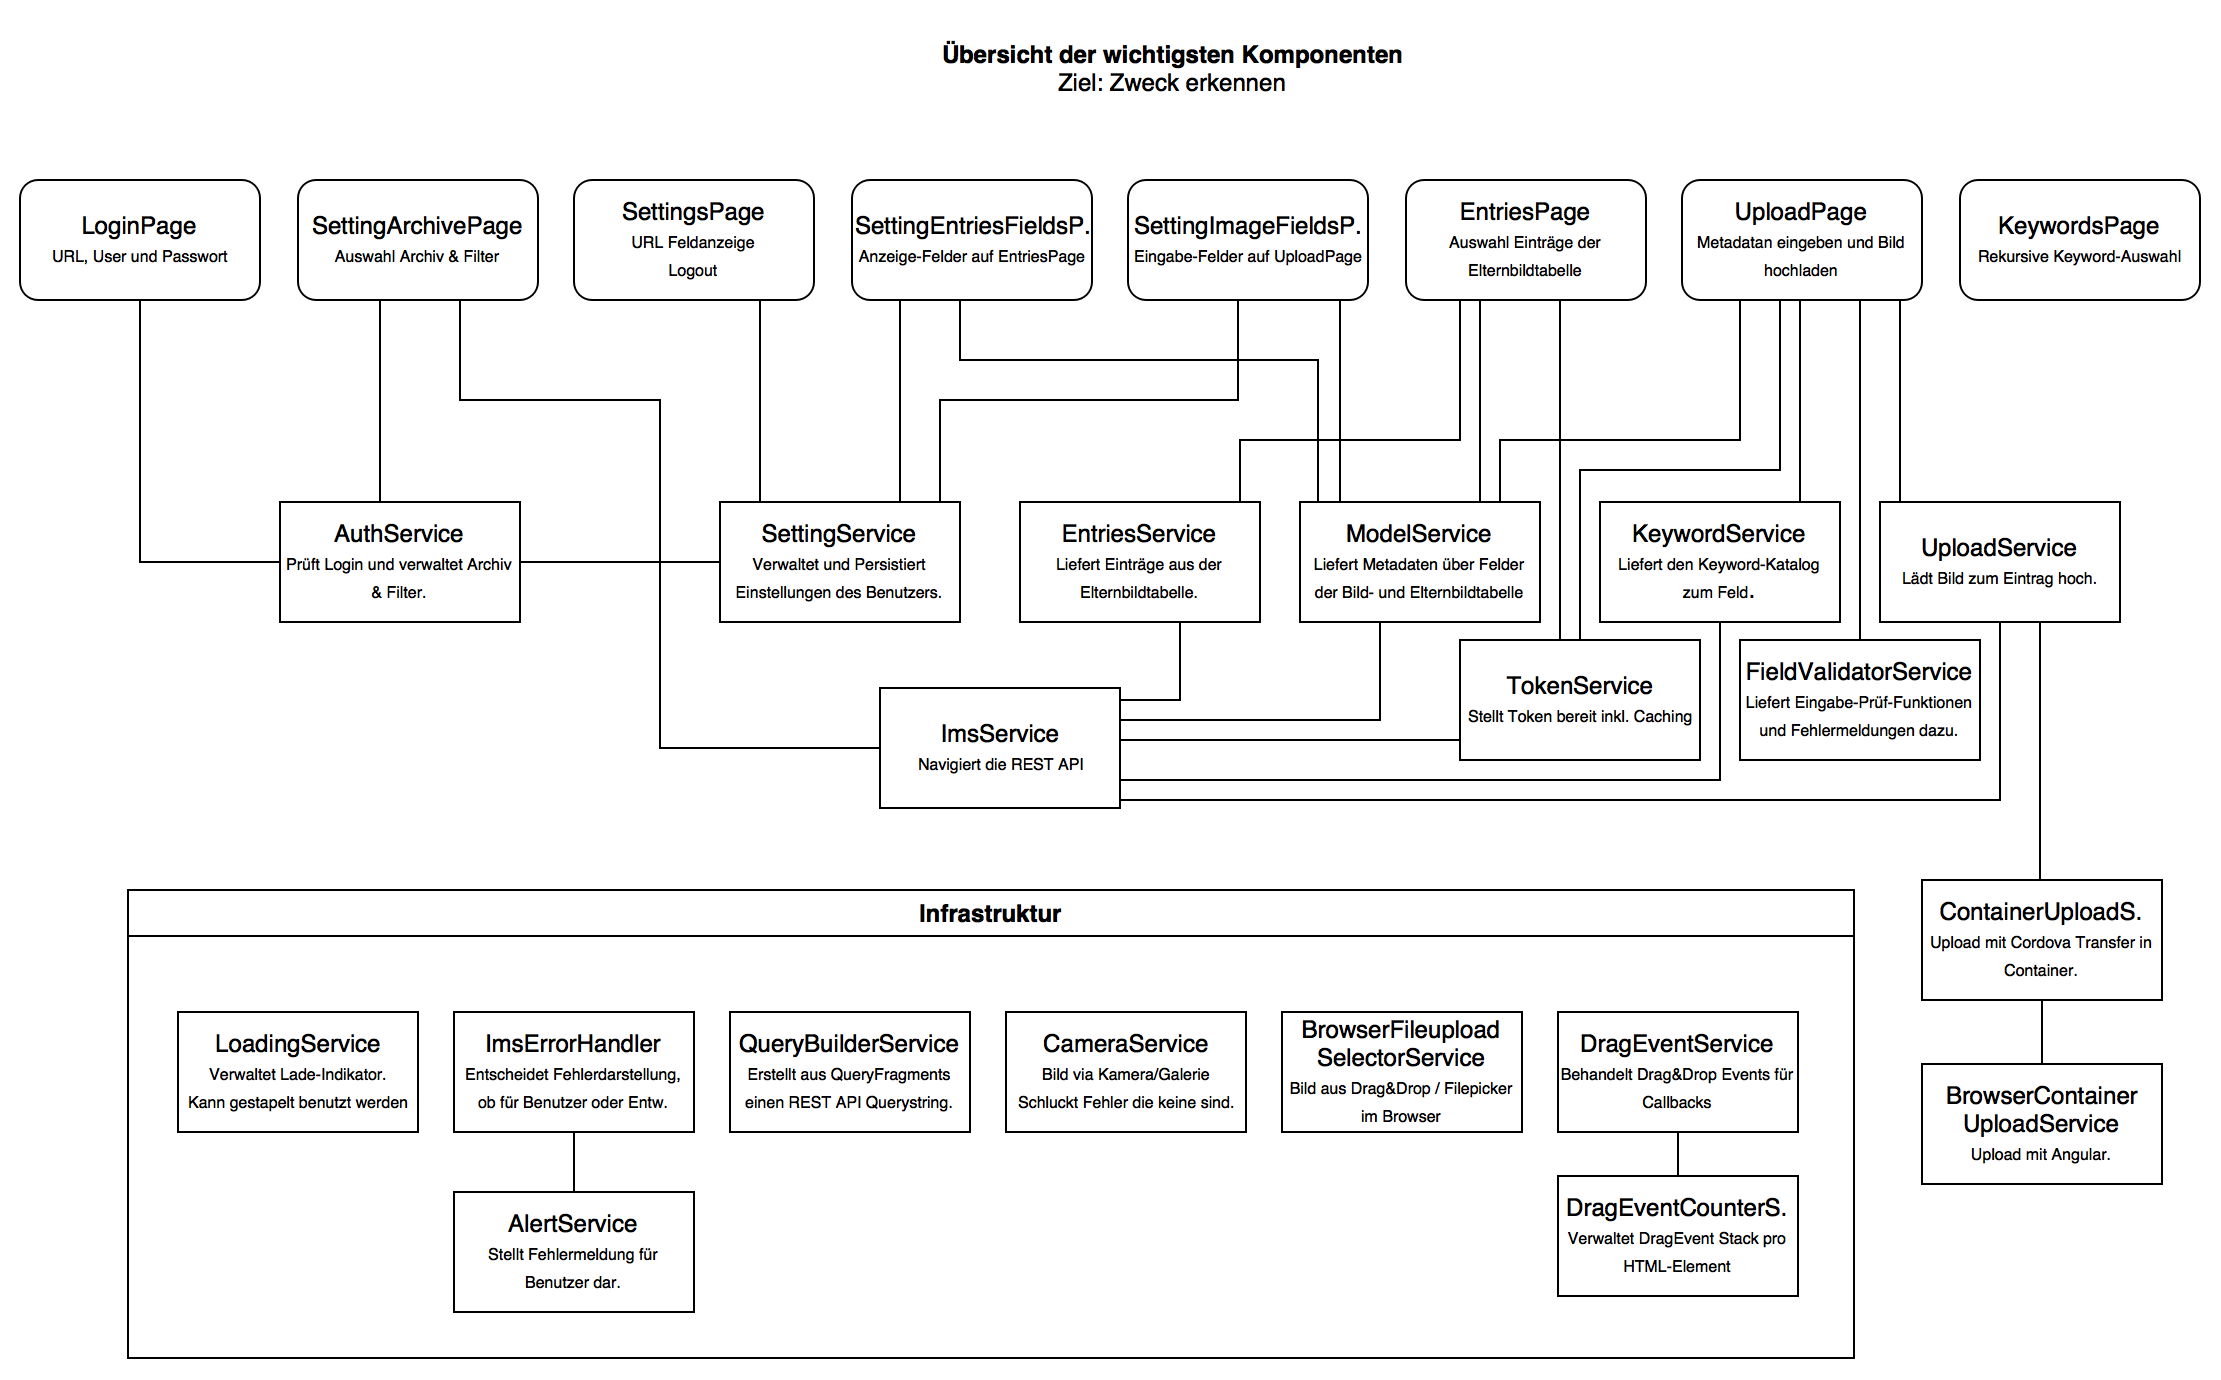
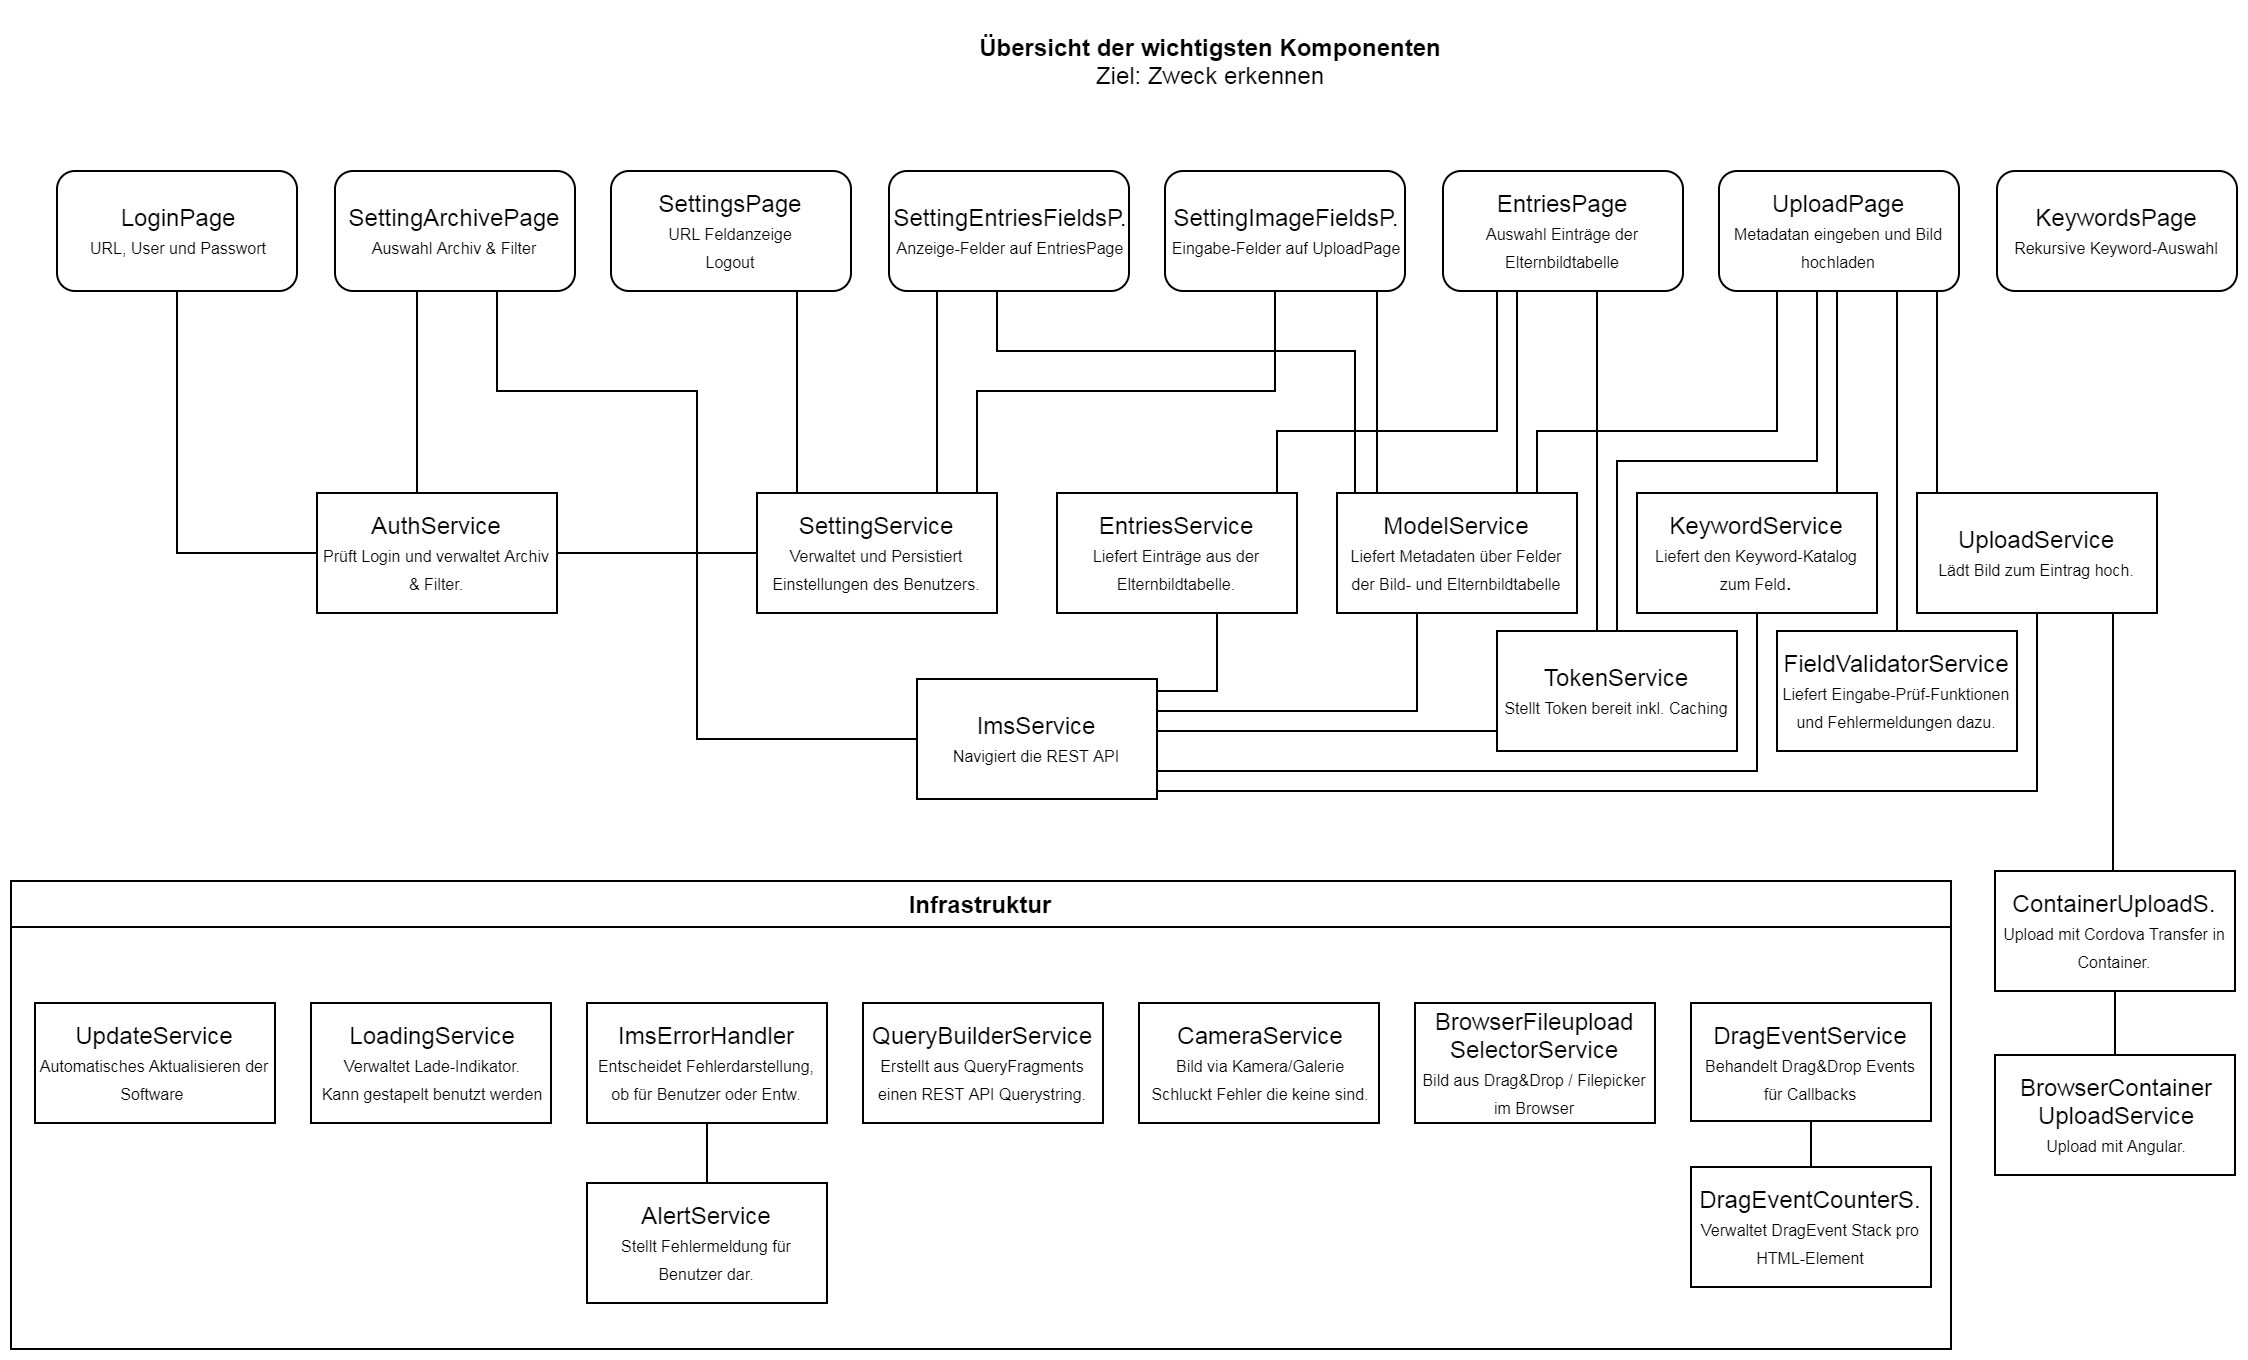
feat: automatic update on client start
With this feature the client checks for a new version on startup and automatically updates the app in case of a newer version. This finishes the continouse delivery cycle and allows to ensure that customers always have the newest version.

Closes #401

diff --git a/src/pages/login/login.spec.ts b/src/pages/login/login.spec.ts
@@ -1,6 +1,8 @@
+/* tslint:disable:max-file-line-count */
 import { ComponentFixture, inject, TestBed } from '@angular/core/testing';
 import { FormsModule, ReactiveFormsModule } from '@angular/forms';
 import { BaseRequestOptions, Http, HttpModule } from '@angular/http';
+import { Deploy } from '@ionic/cloud-angular';
 import { Storage } from '@ionic/storage';
 import { AlertController, App, Config, DomController, Form, IonicModule, Keyboard, LoadingController, NavController, NavParams, Platform, ToastController } from 'ionic-angular';
 import { Observable } from 'rxjs/Observable';
@@ -12,11 +14,14 @@ import { ImsService } from '../../providers/ims-service';
 import { LoadingService } from '../../providers/loading-service';
 import { SettingService } from '../../providers/setting-service';
 import { EntriesPage } from '../entries/entries';
+import { DeployMock } from './../../mocks/mocks';
 import { ImsAuthenticationError } from './../../models/errors/ims-authentication-error';
 import { ImsLoadingError } from './../../models/errors/ims-loading-error';
 import { ImsServerConnectionError } from './../../models/errors/ims-server-connection-error';
+import { UpdateError } from './../../models/errors/update-error';
 import { DragEventCounterService } from './../../providers/drag-event-counter-service';
 import { DragEventService } from './../../providers/drag-event-service';
+import { UpdateService } from './../../providers/update-service';
 import { SettingArchivePage } from './../setting-archive/setting-archive';
 import { LoginPage } from './login';
 
@@ -31,7 +36,7 @@ describe('Page: Login', () => {
       providers: [
         App, DomController, Form, Keyboard, NavController, LoadingController, AuthService,
         ImsService, ImsBackendMock, BaseRequestOptions, LoadingService, AlertService, SettingService,
-        DragEventService, DragEventCounterService,
+        DragEventService, DragEventCounterService, UpdateService,
         {
           provide: Http,
           useFactory: (imsBackendMock, options) =>
@@ -46,6 +51,7 @@ describe('Page: Login', () => {
         { provide: ToastController, useClass: ToastMock },
         { provide: LoadingController, useClass: LoadingMock },
         { provide: Storage, useClass: StorageMock },
+        { provide: Deploy, useClass: DeployMock },
       ],
       imports: [HttpModule, FormsModule, IonicModule, ReactiveFormsModule]
     });
@@ -178,6 +184,17 @@ describe('Page: Login', () => {
     page.loginForm.controls.password.setValue(credential.password);
     expect(page.loginForm.valid).toBeTruthy();
     expect(() => page.loginSuccessful()).toThrowError(ImsLoadingError);
+  }));
+
+  it('Checks for updates', inject([UpdateService], (updateService: UpdateService) => {
+    spyOn(updateService, 'updateIfAvailable').and.callThrough();
+    page.ionViewDidLoad();
+    expect(updateService.updateIfAvailable).toHaveBeenCalled();
+  }));
+
+  it('Throws update error when update fails', inject([UpdateService], (updateService: UpdateService) => {
+    spyOn(updateService, 'updateIfAvailable').and.returnValue(Observable.throw('oops'));
+    expect(() => page.ionViewDidLoad()).toThrowError(UpdateError);
   }));
 
 });

diff --git a/src/pages/login/login.ts b/src/pages/login/login.ts
@@ -10,7 +10,9 @@ import { SettingService } from '../../providers/setting-service';
 import { EntriesPage } from '../entries/entries';
 import { ImsAuthenticationError } from './../../models/errors/ims-authentication-error';
 import { ImsServerConnectionError } from './../../models/errors/ims-server-connection-error';
+import { UpdateError } from './../../models/errors/update-error';
 import { Filter } from './../../models/filter';
+import { UpdateService } from './../../providers/update-service';
 import { SettingArchivePage } from './../setting-archive/setting-archive';
 
 @Component({
@@ -24,7 +26,7 @@ export class LoginPage {
   public version: string = '0.10.0';
   public readonly unauthorizedHttpStatusCode: number = 401;
 
-  constructor(public navCtrl: NavController, public navParams: NavParams, public formBuilder: FormBuilder, public loadingService: LoadingService, public toastCtrl: ToastController, public authService: AuthService, public settingService: SettingService, public app: App) {
+  constructor(public navCtrl: NavController, public navParams: NavParams, public formBuilder: FormBuilder, public loadingService: LoadingService, public toastCtrl: ToastController, public authService: AuthService, public settingService: SettingService, public app: App, public updateService: UpdateService) {
     this.loginForm = this.formBuilder.group({
       server: ['', Validators.required],
       user: ['', Validators.required],
@@ -81,6 +83,7 @@ export class LoginPage {
   }
 
   public ionViewDidLoad(): void {
+    this.loadingService.subscribeWithLoading(this.updateService.updateIfAvailable(), () => { }, err => { throw new UpdateError(err); } );
     this.settingService.getRestUrl().subscribe(val => this.loginForm.controls.server.setValue(val));
     this.settingService.getUsername().subscribe(val => this.loginForm.controls.user.setValue(val));
     this.settingService.isShowRestUrlField().subscribe(val => this.isShowRestUrlField = val);

diff --git a/src/app/app.module.ts b/src/app/app.module.ts
@@ -1,11 +1,11 @@
 import { ErrorHandler, NgModule } from '@angular/core';
-import { Http, HttpModule} from '@angular/http';
+import { Http, HttpModule } from '@angular/http';
 import { BrowserModule } from '@angular/platform-browser';
 import { Camera } from '@ionic-native/camera';
 import { SplashScreen } from '@ionic-native/splash-screen';
 import { StatusBar } from '@ionic-native/status-bar';
 import { Transfer } from '@ionic-native/transfer';
-import { CloudModule, CloudSettings } from '@ionic/cloud-angular';
+import { CloudModule, CloudSettings, Deploy } from '@ionic/cloud-angular';
 import { IonicStorageModule } from '@ionic/storage';
 import { IonicApp, IonicModule, Platform } from 'ionic-angular';
 import { ImsFieldSelectionComponent } from '../components/ims-field-selection/ims-field-selection';
@@ -35,6 +35,7 @@ import { KeywordService } from './../providers/keyword-service';
 import { ModelService } from './../providers/model-service';
 import { QueryBuilderService } from './../providers/query-builder-service';
 import { SettingService } from './../providers/setting-service';
+import { UpdateService } from './../providers/update-service';
 import { MobileClient } from './app.component';
 import { AppProviders } from './app.providers';
 
@@ -113,7 +114,12 @@ const cloudSettings: CloudSettings = {
     DragEventService,
     DragEventCounterService,
     { provide: ErrorHandler, useClass: ImsErrorHandler },
-    KeywordService
+    KeywordService,
+    {
+      provide: UpdateService,
+      useFactory: AppProviders.updateServiceFactory,
+      deps: [Platform, Deploy]
+    },
   ]
 })
 export class AppModule { }

diff --git a/scripts/e2e-deploy-mock.js b/scripts/e2e-deploy-mock.js
@@ -1,0 +1,44 @@
+const fs = require('fs');
+const path = require('path');
+const chalk = require('chalk')
+const figures = require('figures')
+const exec = require('child_process').exec;
+
+const appModuleFile = path.resolve(__dirname, '../src/app/app.module.ts');
+
+const importLocation = 'from \'@ionic/cloud-angular\';';
+const importInsert = '\nimport { DeployMock } from \'./../mocks/mocks\';';
+const providersLocation = 'providers: [';
+const providersInsert = '\n{ provide: Deploy, useClass: DeployMock },';
+
+function insertDeployMock() {
+  insertAtLocation(appModuleFile, importLocation, importInsert);
+  insertAtLocation(appModuleFile, providersLocation, providersInsert);
+  console.info(chalk.green(figures.tick) + ' add DeployMock to app.modules.ts.');
+}
+
+function removeDeployMock() {
+  removeAtLocation(appModuleFile, importLocation, importInsert);
+  removeAtLocation(appModuleFile, providersLocation, providersInsert);
+  console.info(chalk.green(figures.tick) + ' remove DeployMock from app.modules.ts.');
+}
+
+function insertAtLocation(file, location, insert) {
+  var content = fs.readFileSync(file, 'utf8');
+  var contentReplaced = content.replace(location, location + insert);
+  fs.writeFileSync(file, contentReplaced, 'utf8');
+}
+
+function removeAtLocation(file, location, insert) {
+  var content = fs.readFileSync(file, 'utf8');
+  var contentReplaced = content.replace(location + insert, location);
+  fs.writeFileSync(file, contentReplaced, 'utf8');
+}
+
+if(process.argv[2] === 'add') {
+  insertDeployMock();
+}
+
+if(process.argv[2] === 'remove') {
+  removeDeployMock();
+}

diff --git a/src/providers/update-service.spec.ts b/src/providers/update-service.spec.ts
@@ -1,0 +1,40 @@
+import { async, inject, TestBed } from '@angular/core/testing';
+import { Deploy } from '@ionic/cloud-angular';
+import { Platform } from 'ionic-angular';
+import { DeployMock } from './../mocks/mocks';
+import { UpdateService } from './update-service';
+
+describe('Provider: Update Service', () => {
+
+  beforeEach(() => {
+    TestBed.configureTestingModule({
+      declarations: [],
+      providers: [
+        Platform,
+        UpdateService,
+        { provide: Deploy, useClass: DeployMock },
+      ],
+      imports: []
+    });
+  });
+
+  it('Should not download anything if version is already new', async(inject([UpdateService, Deploy], (updateService: UpdateService, deploy: Deploy) => {
+    spyOn(deploy, 'check').and.returnValue(Promise.resolve(false));
+    spyOn(deploy, 'download').and.callThrough();
+    updateService.updateIfAvailable().subscribe(() => {
+      expect(deploy.download).toHaveBeenCalledTimes(0);
+    });
+  })));
+
+  it('Should download, extract and load app if new version is reachable', async(inject([UpdateService, Deploy], (updateService: UpdateService, deploy: Deploy) => {
+    spyOn(deploy, 'check').and.returnValue(Promise.resolve(true));
+    spyOn(deploy, 'download').and.callThrough();
+    spyOn(deploy, 'extract').and.callThrough();
+    spyOn(deploy, 'load').and.callThrough();
+    updateService.updateIfAvailable().subscribe(() => {
+      expect(deploy.download).toHaveBeenCalledTimes(1);
+      expect(deploy.extract).toHaveBeenCalledTimes(1);
+      expect(deploy.load).toHaveBeenCalledTimes(1);
+    });
+  })));
+});

diff --git a/src/app/app.providers.ts b/src/app/app.providers.ts
@@ -1,10 +1,13 @@
 import { Http } from '@angular/http';
 import { Transfer } from '@ionic-native/transfer';
+import { Deploy } from '@ionic/cloud-angular';
 import { Platform } from 'ionic-angular';
 import { TransferBlobMock } from './../mocks/providers/transfer-blob-mock';
 import { AuthService } from './../providers/auth-service';
 import { BrowserContainerUploadService } from './../providers/browser-container-upload-service';
+import { BrowserUpdateService } from './../providers/browser-update-service';
 import { ContainerUploadService } from './../providers/container-upload-service';
+import { UpdateService } from './../providers/update-service';
 
 export class AppProviders {
 
@@ -13,6 +16,14 @@ export class AppProviders {
       return new Transfer();
     } else {
       return new TransferBlobMock(http);
+    }
+  }
+
+  public static updateServiceFactory(platform: Platform, deploy: Deploy): UpdateService | BrowserUpdateService {
+    if (platform.is('core')) {
+      return new BrowserUpdateService();
+    } else {
+      return new UpdateService(deploy);
     }
   }
 

diff --git a/src/providers/update-service.ts b/src/providers/update-service.ts
@@ -1,0 +1,22 @@
+import { Injectable } from '@angular/core';
+import { Deploy } from '@ionic/cloud-angular';
+import { Observable } from 'rxjs/Observable';
+
+@Injectable()
+export class UpdateService {
+
+  constructor(public deploy: Deploy) { }
+
+  public updateIfAvailable(): Observable<void> {
+    return Observable.fromPromise(this.deploy.check()).flatMap(snapshotAvailable => this.downloadApplyAndReloadIfAvailable(snapshotAvailable));
+  }
+
+  private downloadApplyAndReloadIfAvailable(snapshotAvailable: boolean): Observable<void> {
+    if (snapshotAvailable) {
+      return Observable.fromPromise(this.deploy.download()).flatMap(() =>
+        Observable.fromPromise(this.deploy.extract()).do(() => this.deploy.load()));
+    } else {
+      return Observable.of(undefined);
+    }
+  }
+}

diff --git a/scripts/release.js b/scripts/release.js
@@ -26,7 +26,8 @@ standardVersion({ 'skip': { 'commit': true, 'tag': true } }).then(function succ(
   printTodoCommand('git add package.json config.xml src/pages/login/login.ts CHANGELOG.md', 'after checking local changes');
   printTodoCommand('git commit -m "' + "release: " + newVersion + '"', 'to commit local changes');
   printTodoCommand('git tag -a -m "' + "release: " + newVersion + '" ' + newVersion, 'to create new tag');
-  printTodoCommand('git push --follow-tags origin master', 'to publish');
+  printTodoCommand('git push --follow-tags origin master', 'to publish to github');
+  printTodoCommand('ionic upload --note "version: ' + newVersion + '" --deploy production', 'to release in production');
 });
 
 function printTodoCommand(command, reason) {

diff --git a/src/providers/browser-update-service.spec.ts b/src/providers/browser-update-service.spec.ts
@@ -1,0 +1,20 @@
+import { inject, TestBed } from '@angular/core/testing';
+import { Observable } from 'rxjs/Observable';
+import { BrowserUpdateService } from './browser-update-service';
+
+describe('Provider: Browser Update Service', () => {
+
+  beforeEach(() => {
+    TestBed.configureTestingModule({
+      declarations: [],
+      providers: [
+        BrowserUpdateService,
+      ],
+      imports: []
+    });
+  });
+
+  it('Should do nothing when checked for updates', inject([BrowserUpdateService], (browserUpdateService: BrowserUpdateService) => {
+    expect(browserUpdateService.updateIfAvailable()).toEqual(Observable.of(undefined));
+  }));
+});

diff --git a/src/mocks/mocks.ts b/src/mocks/mocks.ts
@@ -256,3 +256,19 @@ export class InfiniteScrollMock {
   public complete() {
   }
 }
+
+export class DeployMock {
+  public check(): Promise<boolean> {
+    return Promise.resolve(false);
+  }
+
+  public download(): Promise<void> {
+    return Promise.resolve(undefined);
+  }
+
+  public extract(): Promise<void> {
+    return Promise.resolve(undefined);
+  }
+
+  public load(): void { }
+}

diff --git a/e2e/page-objects/login-page-object.ts b/e2e/page-objects/login-page-object.ts
@@ -34,6 +34,7 @@ export class LoginPageObject {
 
   public loadPage(): void {
     browser.get('');
+    Helpers.waitUntilLoaderFinished();
   }
 
   public verifyToastErrorMessage(): void {
@@ -46,6 +47,7 @@ export class LoginPageObject {
   }
 
   public clickLoginButton(): void {
+    Helpers.waitUntilElementIsReady(this.loginButton);
     this.loginButton.click();
   }
 

diff --git a/src/models/errors/update-error.ts b/src/models/errors/update-error.ts
@@ -1,0 +1,8 @@
+import { ImsError } from './ims-error';
+export class UpdateError extends ImsError {
+
+  constructor(message: string) {
+    super('Fehler beim Aktualisieren der Applikation.', message);
+    Object.setPrototypeOf(this, UpdateError.prototype);
+  }
+}
